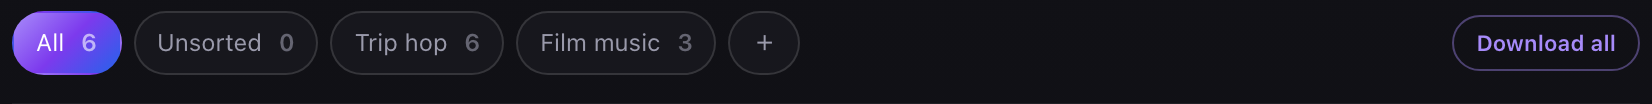
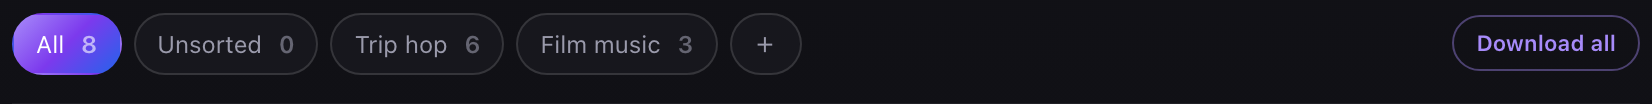
minor fixes

diff --git a/docs/guide/capture.py b/docs/guide/capture.py
@@ -80,6 +80,7 @@ PAGE_JS = r"""
   const logo = R(q('.logo-wrap'));
   const gen = R(q('#genBtn'));
   const gear = R(q('#btnSettings'));
+  const bell = R(q('#notifyBtn'));
   [
     [logo.x + logo.w / 2, logo.y + logo.h + 14],
     left(R(q('#titleDice'))),
@@ -87,10 +88,12 @@ PAGE_JS = r"""
     right(label('style')),
     right(label('length')),
     right(text(bpm)),
-    right(text(q('#lyricsBox summary > span'))),
+    right(label('vocals')),
     right(text(q('summary[data-i18n="advanced"]'))),
     [gen.x + gen.w - 14, gen.y - 16],
     [gear.x + gear.w / 2, gear.y + gear.h + 14],
+    right(R(q('#presetDelete'))),
+    [bell.x + bell.w / 2, bell.y + bell.h + 14],
   ].forEach(([x, y], i) => marker(i + 1, x, y));
 
   // Song row: numbers under its buttons

diff --git a/docs/guide/using-the-app.md b/docs/guide/using-the-app.md
@@ -32,10 +32,12 @@ While songs are being generated or waiting, the Library tab shows how many (hove
 | 4 | **Style** | Genre and instruments. Dice: a suggestion. Under “Styles”, cards add terms. |
 | 5 | **Length** | 10 seconds to 5 minutes, default 1:30. |
 | 6 | **BPM** | Tempo. Far left = Auto, the model decides. |
-| 7 | **Vocals** | Right below the upload field: switch between **Instrumental** and **Song**. With Song: pick the language and type your own lyrics, or leave the field empty (dice: “Automatic”) and the model writes its own lyrics when generating. |
+| 7 | **Vocals** | Below the presets: switch between **Instrumental** and **Song**. With Song: pick the language and type your own lyrics, or leave the field empty (dice: “Automatic”) and the model writes its own lyrics when generating. |
 | 8 | **Advanced** | Iterations (quality), variance (variety), key, time signature, seed. |
 | 9 | **Generate** | Pick the number of versions (1 to 10) and go. Several versions are named A, B, C … The bar stays visible while scrolling. |
 | 10 | **Gear** | Settings, see [below](#settings). Next to it: interface language (twelve languages, from German to Chinese). |
+| 11 | **Presets** | Save the current settings under a name and load them again, see below. |
+| 12 | **Bell** | Sound and notification when a song is done, see above. |
 
 Above the prompt sit three more buttons:
 
